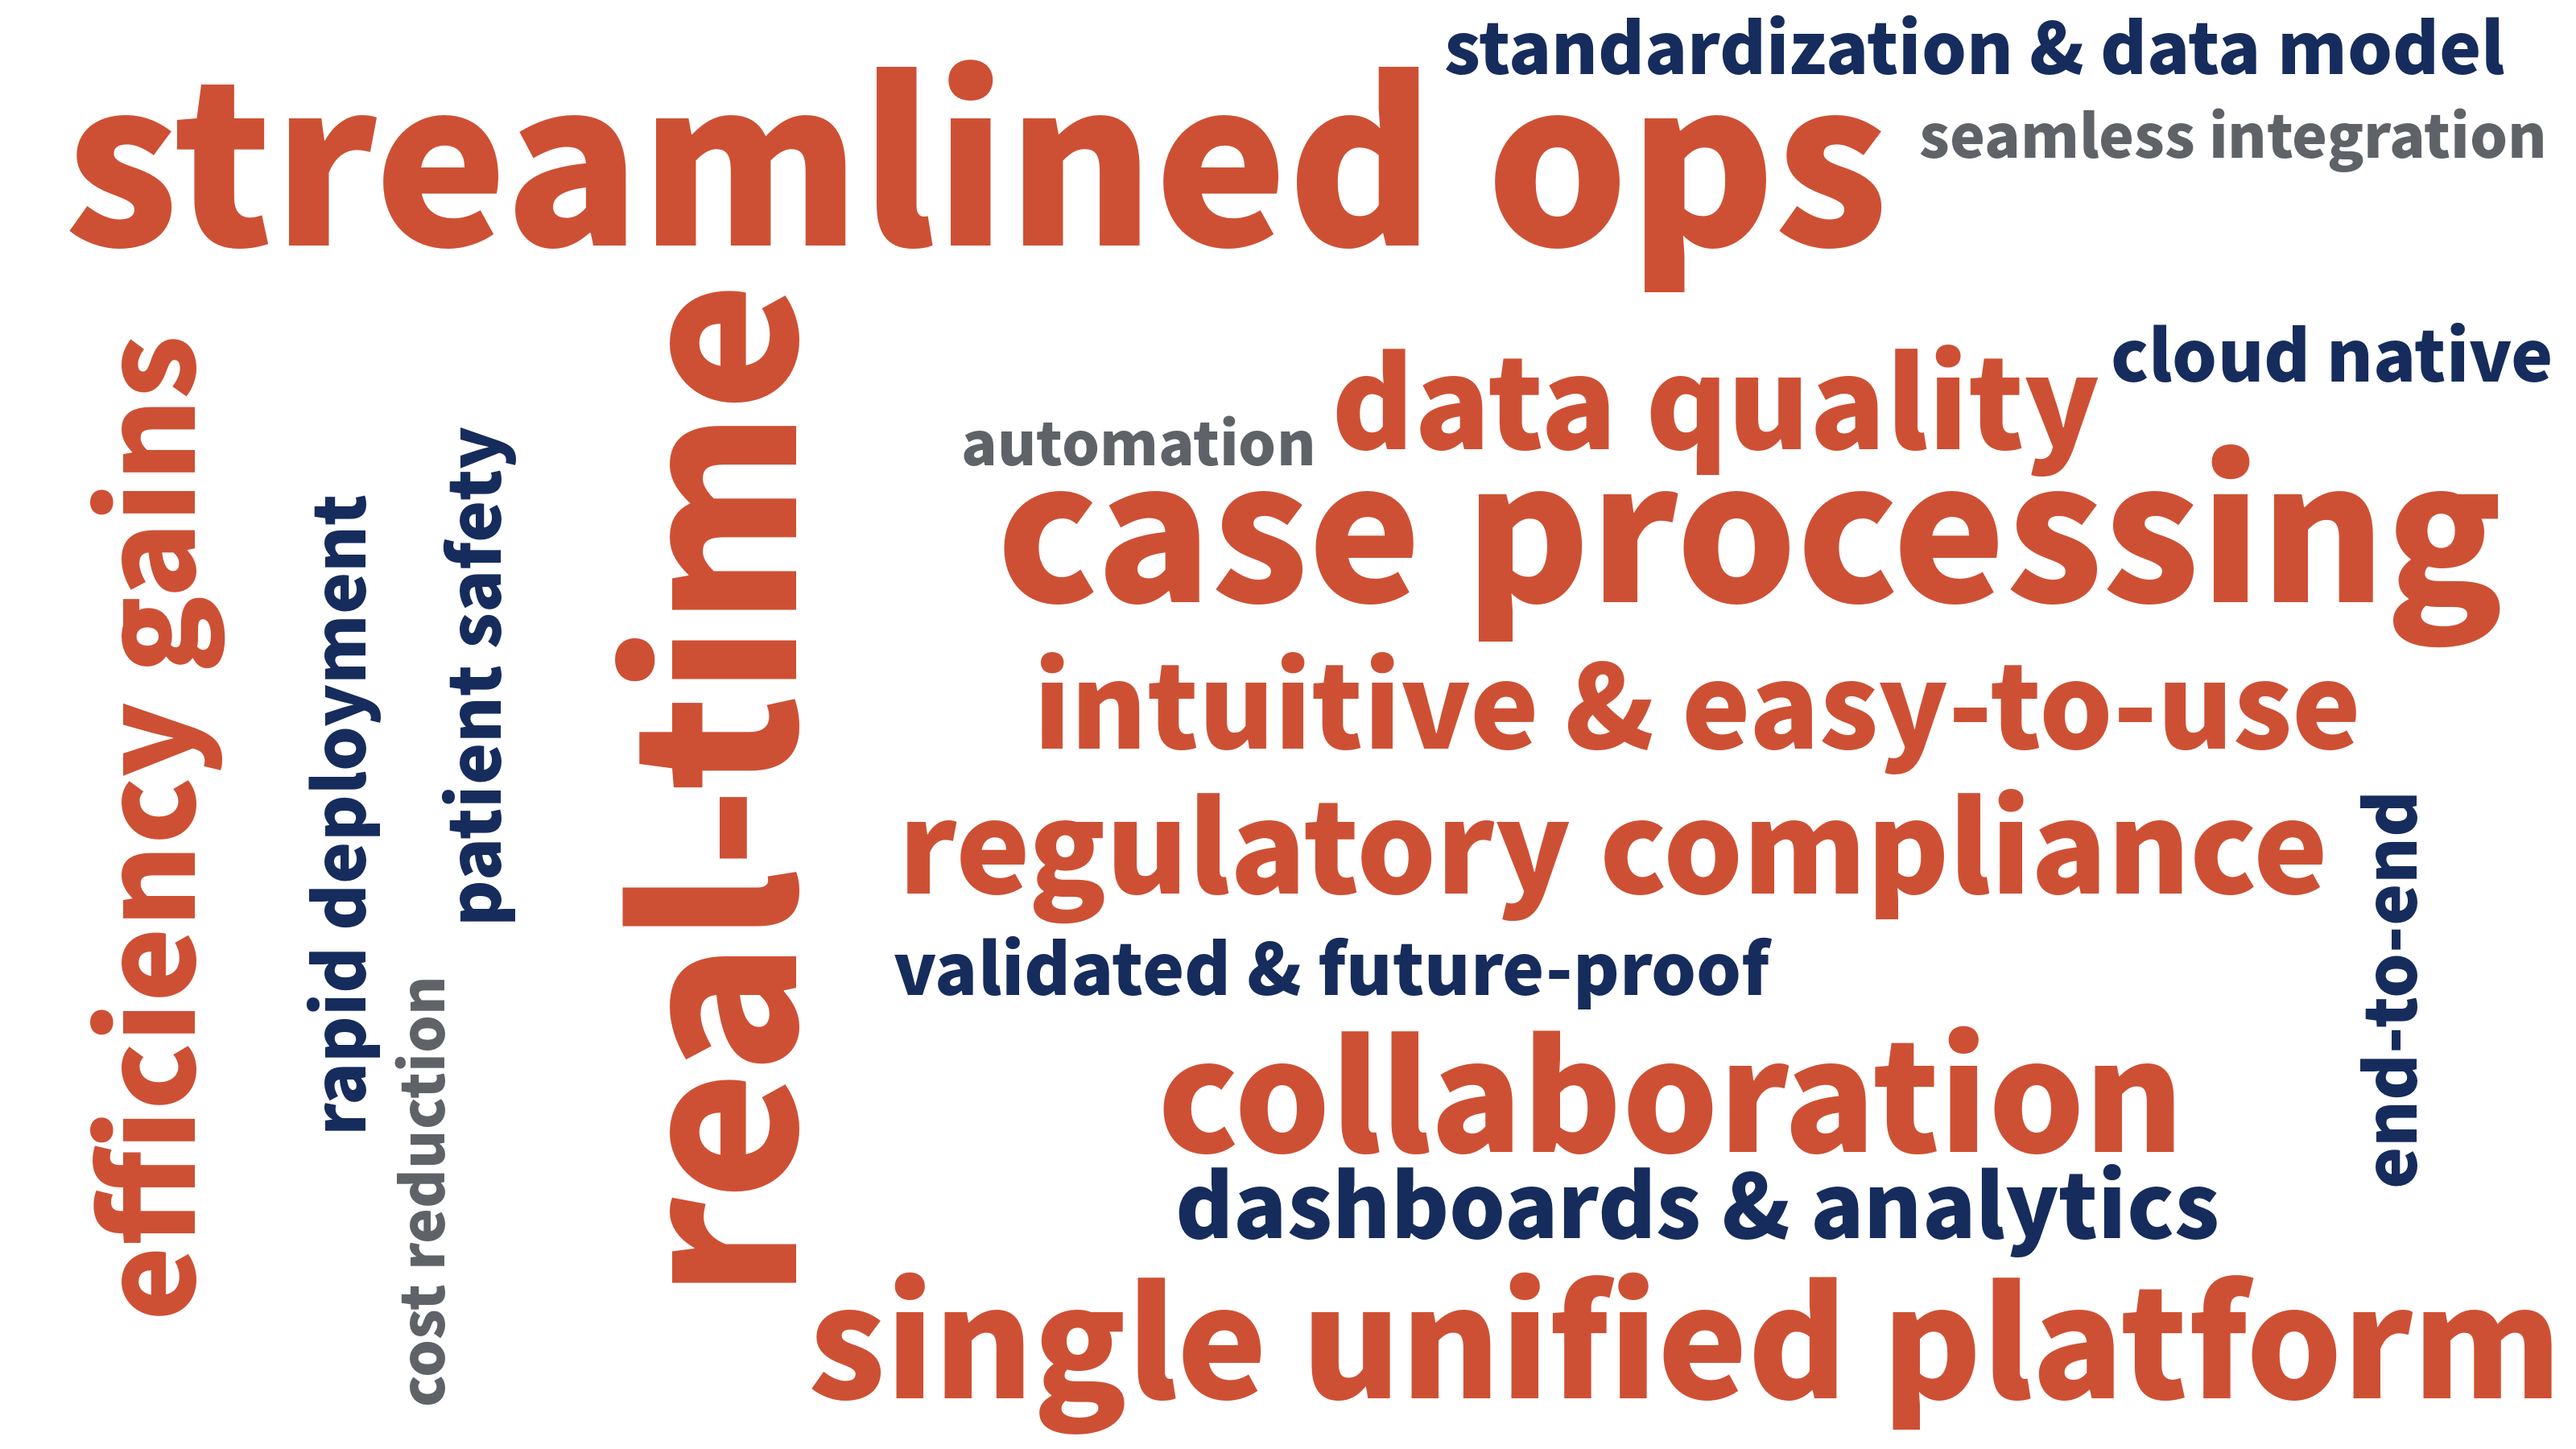
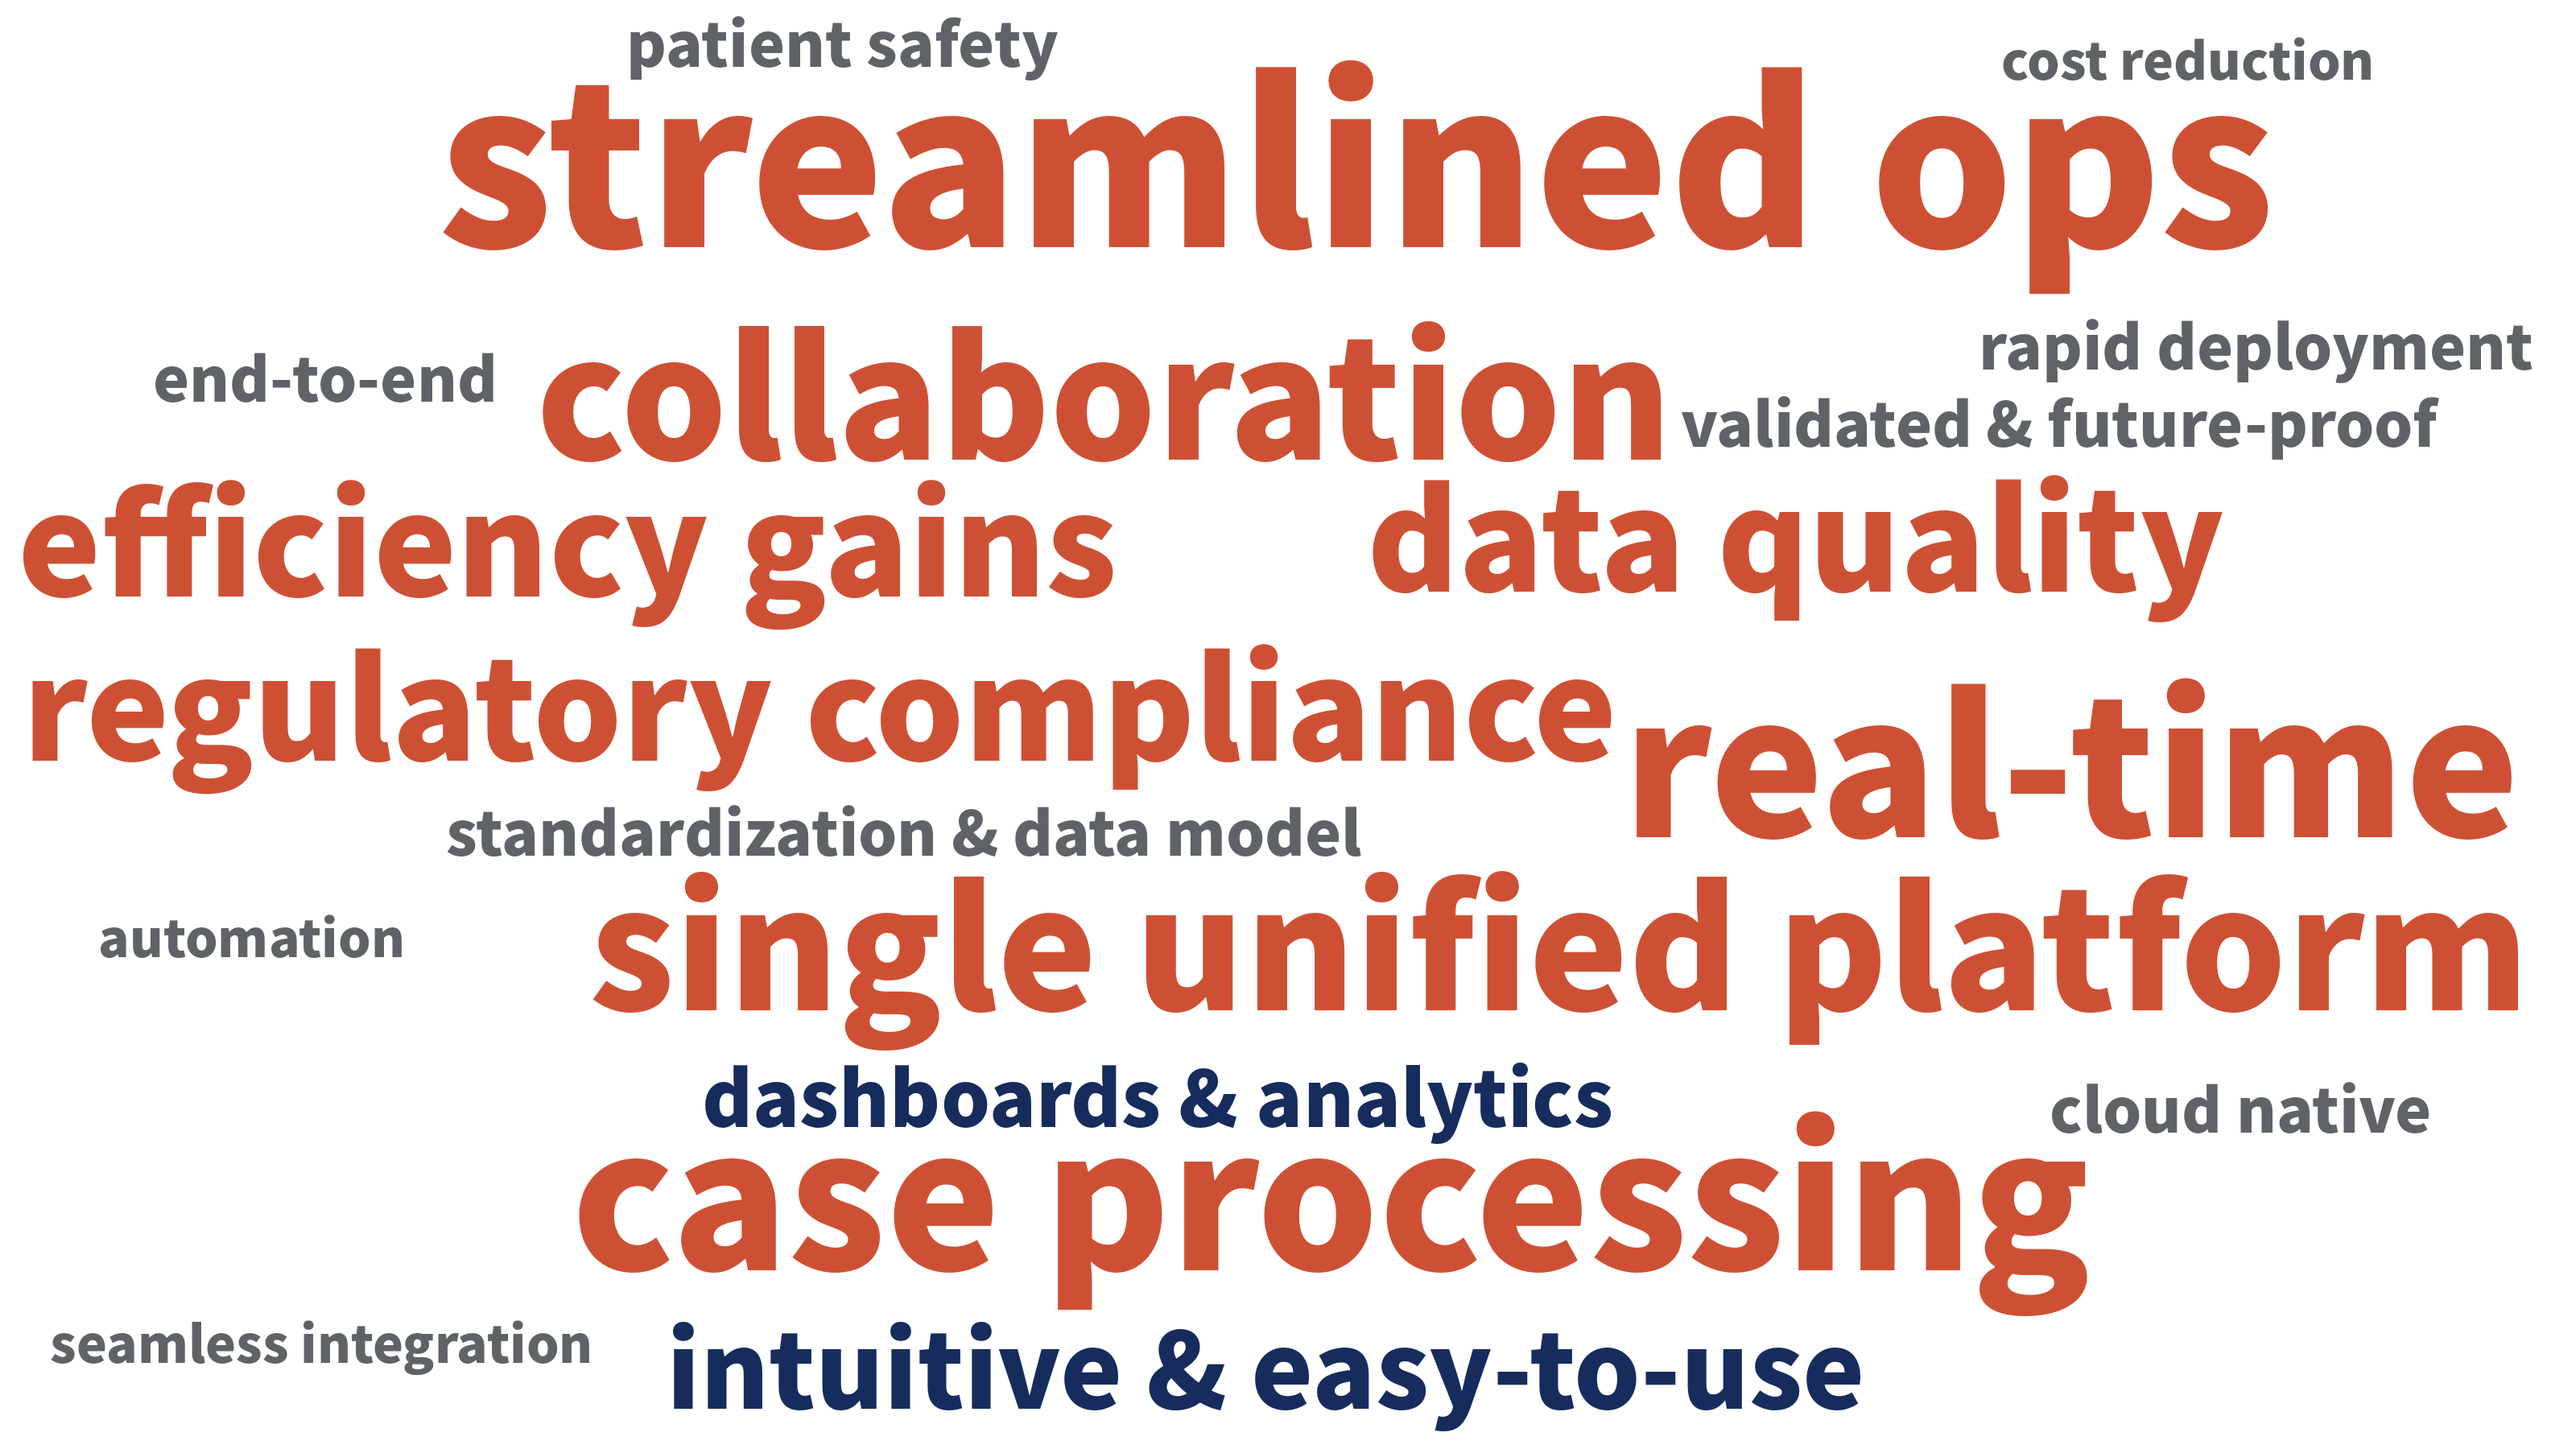
feat: update workspace

diff --git a/veeva_sell_point_wordcloud.py b/veeva_sell_point_wordcloud.py
@@ -252,8 +252,8 @@ for k, v in freq.items():
     label = label_map.get(k, k)
     final_freq[label] += v
 
-# real-time 再额外 +1.0 作为用户点名强调
-final_freq['real-time'] = final_freq.get('real-time', 0) + 2.0
+# real-time 保持原始命中权重（不加额外加权，约 6.0）
+# final_freq['real-time'] = final_freq.get('real-time', 0) + 0.0
 
 print("\nFinal labels for word cloud:")
 for k, v in final_freq.most_common():
@@ -283,7 +283,7 @@ wc = WordCloud(
     height=900,
     background_color='white',
     max_words=60,
-    prefer_horizontal=0.62,
+    prefer_horizontal=1.0,
     collocations=False,
     color_func=color_func,
     min_font_size=14,
